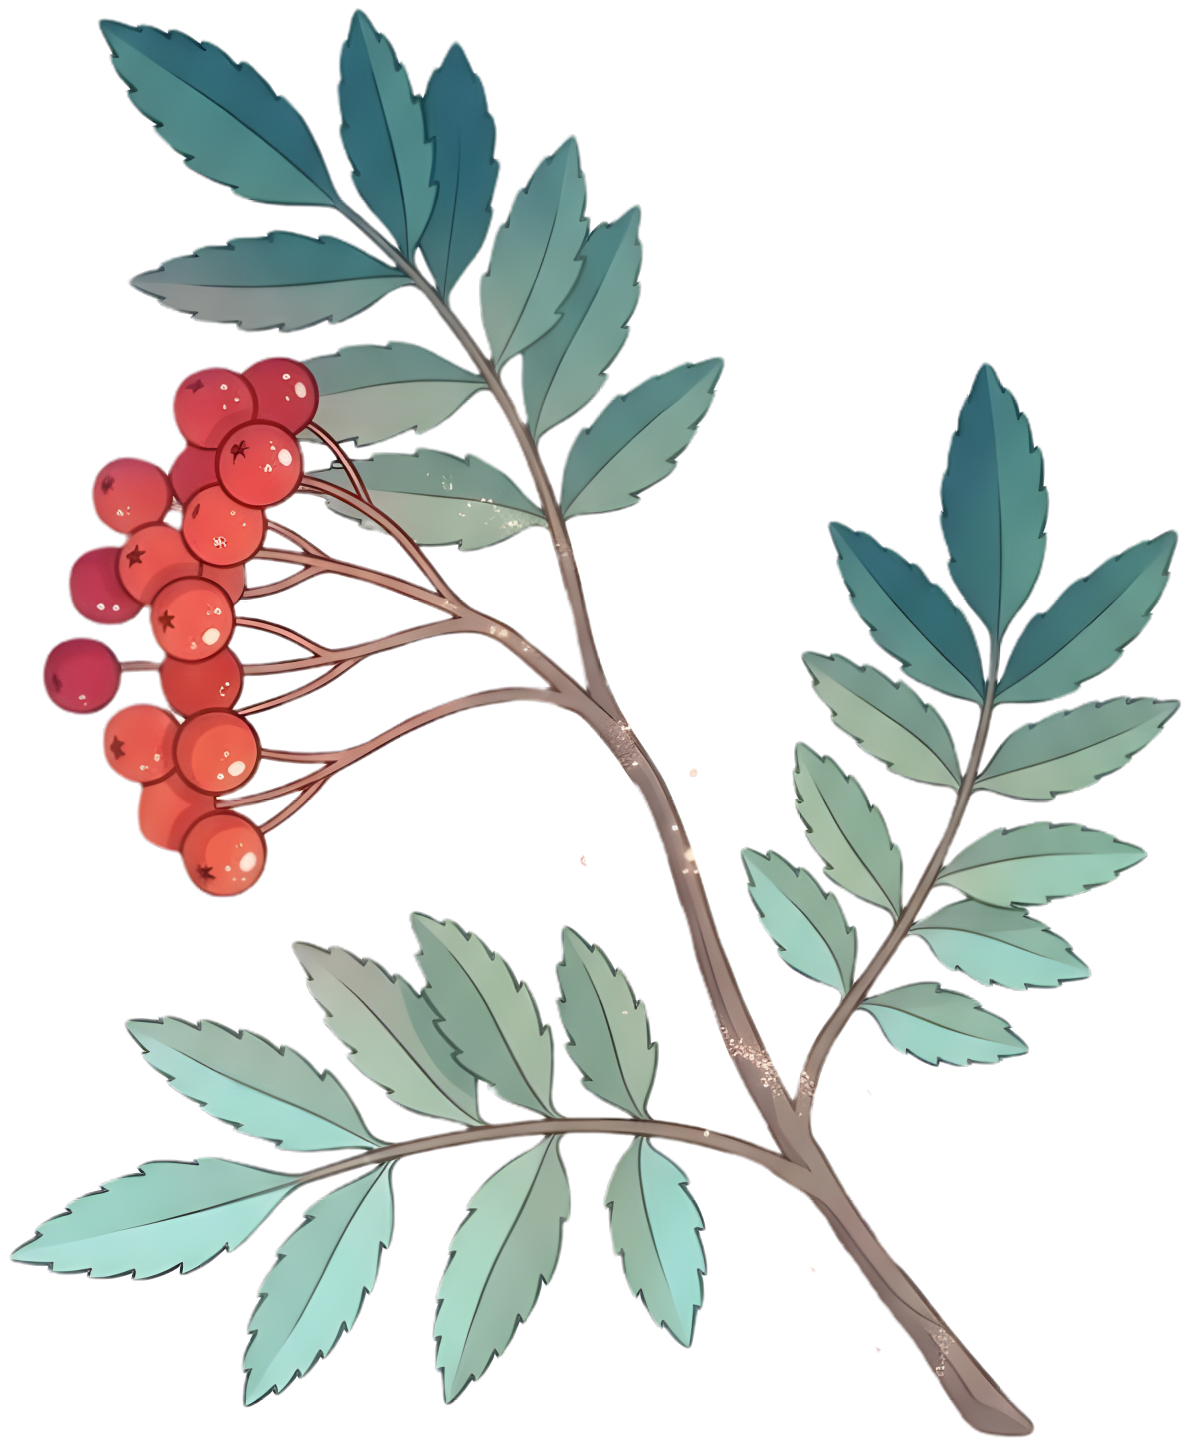
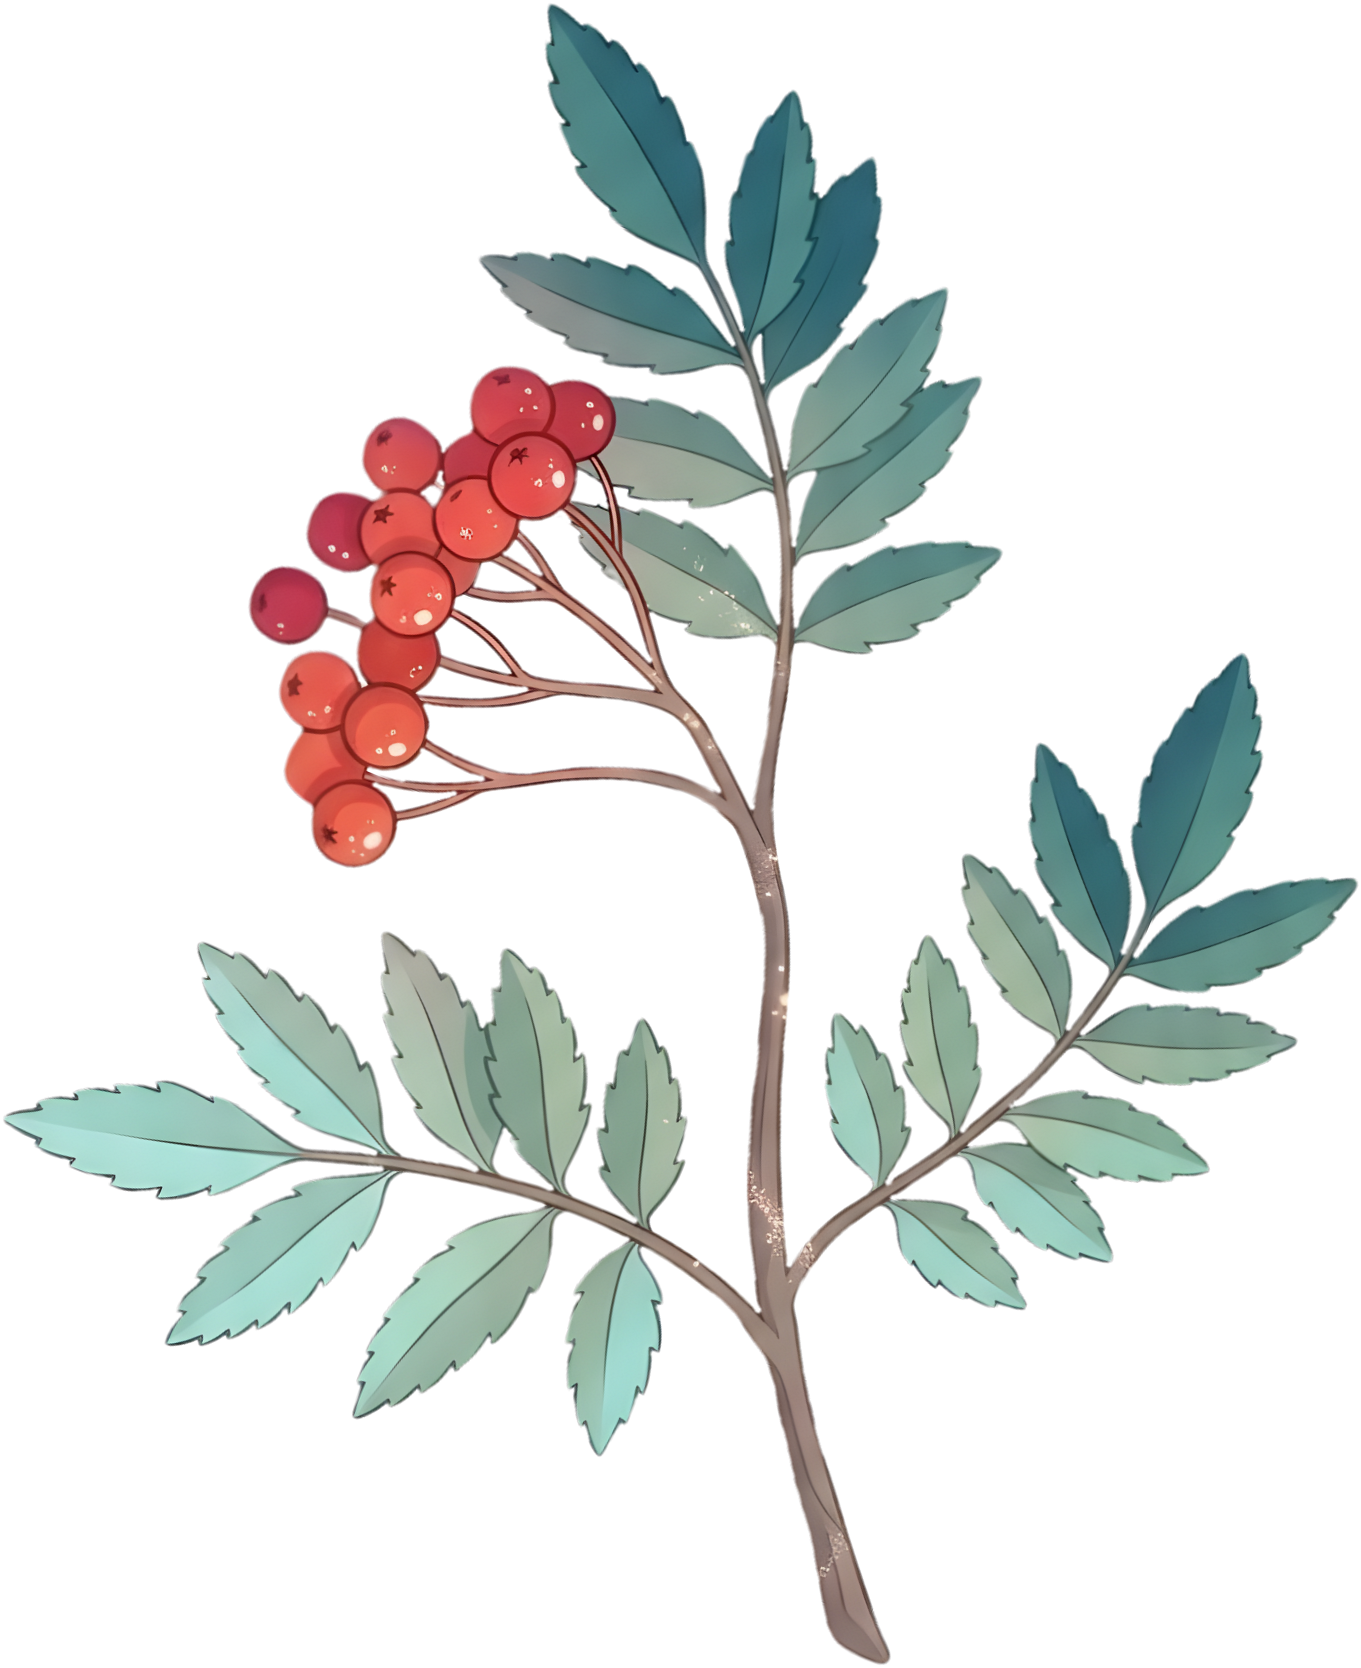
Pictures: redrawn Birch, Blackthorn, Hazel and Rowan branches; new Willow branch, Twig, Oak wood, Willow wood and Wooden disc (cropped, upscaled 2x with the smudge check). Branches turned upright like the Ash branch; altar sizes by real length (willow longest, twig smallest), cupboard sizes kept eas

diff --git a/js/config.js b/js/config.js
@@ -75,7 +75,7 @@ const ITEM_KIND = {
   "Vanilla":4,"Baking soda":4,"Brown sugar":4,"Epsom salt":5,"Flour":5,"Rice flour":5,"Sugar":4,"Garden soil":5,
   "Hearth ash":5,"Coin":5,"Owl feather":5,"Seashell":5,"White feather":5,"Brass buttons":6,"Bright buttons":6,"Gold buttons":6,
   "Heart-shaped buttons":6,"Iron filings":6,"Iron nail":6,"Iron pin":6,"Ash branch":7,"Ash wood":7,"Birch branch":7,"Birch wood":7,
-  "Blackthorn branch":7,"Hazel branch":7,"Rowan branch":7,"Autumn leaf":7,"Butter":8,"Soap base":8,"Soap base (charcoal)":8,
+  "Blackthorn branch":7,"Hazel branch":7,"Oak wood":7,"Rowan branch":7,"Twig":7,"Willow branch":7,"Willow wood":7,"Wooden disc":8,"Autumn leaf":7,"Butter":8,"Soap base":8,"Soap base (charcoal)":8,
   "Black ink":0,"Gold ink":0,"Plain ink":0,"Red ink":0,"Silver ink":0,"Violet ink":0,"Gold paint":0,"Red paint":0,
   /* the thread cones */
   "Black thread":3,"Blue thread":3,"Gold thread":3,"Green thread":3,"Grey thread":3,"Orange thread":3,"Pink thread":3,"Purple thread":3,"Rainbow thread":3,"Red thread":3,"Silver thread":3,"White thread":3,"Yellow thread":3,
@@ -107,7 +107,10 @@ const REAL_SIZE = {
   "Silver glitter":0.4,"Pink glitter":0.4,"Biodegradable glitter":0.4,"Rose clay":0.45,"Eggshell":0.45,"Hearth ash":0.45,
   "Soap base":0.28,"Soap base (charcoal)":0.28,"Saffron":0.38,"Sandalwood":0.45,"Peacock feather":0.75,"Seashell":0.55,
   "Selenite":0.5,"Pearl":0.36,"River stone":0.46,"Beetroot powder":0.55,"Apple":0.55,
-  "Acorn":0.55,"Ash wood":0.8,"Birch wood":0.8,"Small keys":0.6,"Coin":0.45,"Glass beads":0.45,"Silver beads":0.45,"Clamshell compact":0.35,"Glass vial":0.4,"Wooden dice":0.4,"Clay":0.45,"Sealing wax":0.45,"Tiny bells":0.45,"Paper":0.5,"Quills":0.55,"Teacup charms":0.5,"Paintbrush bristles":0.45,
+  "Acorn":0.55,"Ash wood":0.8,"Birch wood":0.8,"Willow wood":0.8,"Oak wood":0.6,"Wooden disc":0.5,
+  /* branches, by how long each really is (a 20 cm bottle = 1): willow the longest and bendiest, ash and birch long and straight,
+     hazel a little shorter, rowan and blackthorn short leafy or thorny sprigs, the twig a little thing; all stand upright */
+  "Willow branch":1,"Ash branch":0.95,"Birch branch":0.95,"Hazel branch":0.9,"Rowan branch":0.85,"Blackthorn branch":0.85,"Twig":0.55,"Small keys":0.6,"Coin":0.45,"Glass beads":0.45,"Silver beads":0.45,"Clamshell compact":0.35,"Glass vial":0.4,"Wooden dice":0.4,"Clay":0.45,"Sealing wax":0.45,"Tiny bells":0.45,"Paper":0.5,"Quills":0.55,"Teacup charms":0.5,"Paintbrush bristles":0.45,
   /* the ink bottles: small round flasks, about 8 cm */
   "Black ink":0.4,"Gold ink":0.4,"Plain ink":0.4,"Red ink":0.4,"Silver ink":0.4,"Violet ink":0.4,"Gold paint":0.4,"Red paint":0.4,
   /* the thread cones: about 10 cm */
@@ -139,7 +142,7 @@ const ITEM_SIZE = {
   "Black tourmaline":0.61,"Smoky quartz":0.61,"Rose quartz":0.61,"Hematite":0.59,"Rhodonite":0.59,"Pyrite":0.59,
   "Sunstone":0.61,"Malachite":0.59,"Obsidian":0.59,
   /* the "symbols" pictures, sized to read easily in their cupboards */
-  "Acorn":0.7,"Ash branch":0.95,"Birch branch":0.95,"Blackthorn branch":0.9,"Hazel branch":0.95,"Rowan branch":0.95,"Ash wood":0.8,"Birch wood":0.8,
+  "Acorn":0.7,"Ash branch":0.95,"Birch branch":0.95,"Blackthorn branch":0.9,"Hazel branch":0.95,"Rowan branch":0.95,"Willow branch":1,"Twig":0.7,"Ash wood":0.8,"Birch wood":0.8,"Willow wood":0.8,"Oak wood":0.7,"Wooden disc":0.6,
   "Brass buttons":0.7,"Bright buttons":0.7,"Gold buttons":0.7,"Heart-shaped buttons":0.7,"Mismatched buttons":0.7,"Vintage buttons":0.7,
   "Coin":0.7,"Glass beads":0.7,"Silver beads":0.7,"Clamshell compact":0.7,"Glass vial":0.6,"Wooden dice":0.7,"Clay":0.7,"Sealing wax":0.7,"Tiny bells":0.7,"Paper":0.75,"Quills":0.75,"Teacup charms":0.75,"Paintbrush bristles":0.7,"Iron filings":0.7,"Iron nail":0.7,"Iron pin":0.7,"Small keys":0.75,
   "Black ink":0.6,"Gold ink":0.6,"Plain ink":0.6,"Red ink":0.6,"Silver ink":0.6,"Violet ink":0.6,"Gold paint":0.6,"Red paint":0.6,
@@ -547,6 +550,11 @@ const ASSETS = {
     "Paintbrush bristles": "assets/items/paintbrush-bristles.png",
     "Hazel branch":        "assets/items/hazel-branch.png",
     "Rowan branch":        "assets/items/rowan-branch.png",
+    "Oak wood":            "assets/items/oak-wood.png",
+    "Twig":                "assets/items/twig.png",
+    "Willow branch":       "assets/items/willow-branch.png",
+    "Willow wood":         "assets/items/willow-wood.png",
+    "Wooden disc":         "assets/items/wooden-disc.png",
     "Brass buttons":        "assets/items/brass-buttons.png",
     "Bright buttons":      "assets/items/bright-buttons.png",
     "Gold buttons":         "assets/items/gold-buttons.png",

diff --git a/DESIGN_NOTES.md b/DESIGN_NOTES.md
@@ -130,7 +130,7 @@ The design document says a Glamour becomes "a cosmetic, mist or perfume". Each o
 Waiting on the designer's art:
 - **Spell pictures**: 39 of 240 (recipes 1 to 39). The rest show the outline and a question mark.
 - **Upscale smudge check: to finish** (2026-11-18): Real-ESRGAN x4plus leaves dark vertical smudges in some pictures on this GPU. 23 are fixed; about 170 small patches still to look at, black tea, and the backgrounds (.jpg) and tarot cards not checked yet. It keeps the graphics card busy for about an hour, so it is done when the computer is free. New pictures are checked as they come in (upscale-safe.ps1).
-- **Birch branch picture: to be redrawn** (the designer, 2026-11-18): the one in the game now is to be replaced, like the ash and rowan branches were that day.
+- **Wood & branches pictures** (2026-11-19): the redrawn Birch, Blackthorn, Hazel and Rowan branches and the new Willow branch, Twig, Oak wood, Willow wood and Wooden disc are in. Every branch stands upright (turned after upscaling where it was drawn lying or leaning), as the Ash branch does; Oak wood stays a pile of logs lying down. On the altar the branches go by real length: willow 1 (longest), ash and birch 0.95, hazel 0.9, rowan and blackthorn 0.85 (short sprigs), twig 0.55; Oak wood 0.6 (wide), Wooden disc 0.5.
 - **Ingredient pictures**: 51 of 257 items have none yet (all the threads, ribbons and pouches, the woods and branches, the inks, buttons, and small objects such as the locket, quill, wax seal, tiny bell). Some existing cut-outs keep a faint outline; background-removed PNGs with the same names will replace them.
 
 Decided, to build:
